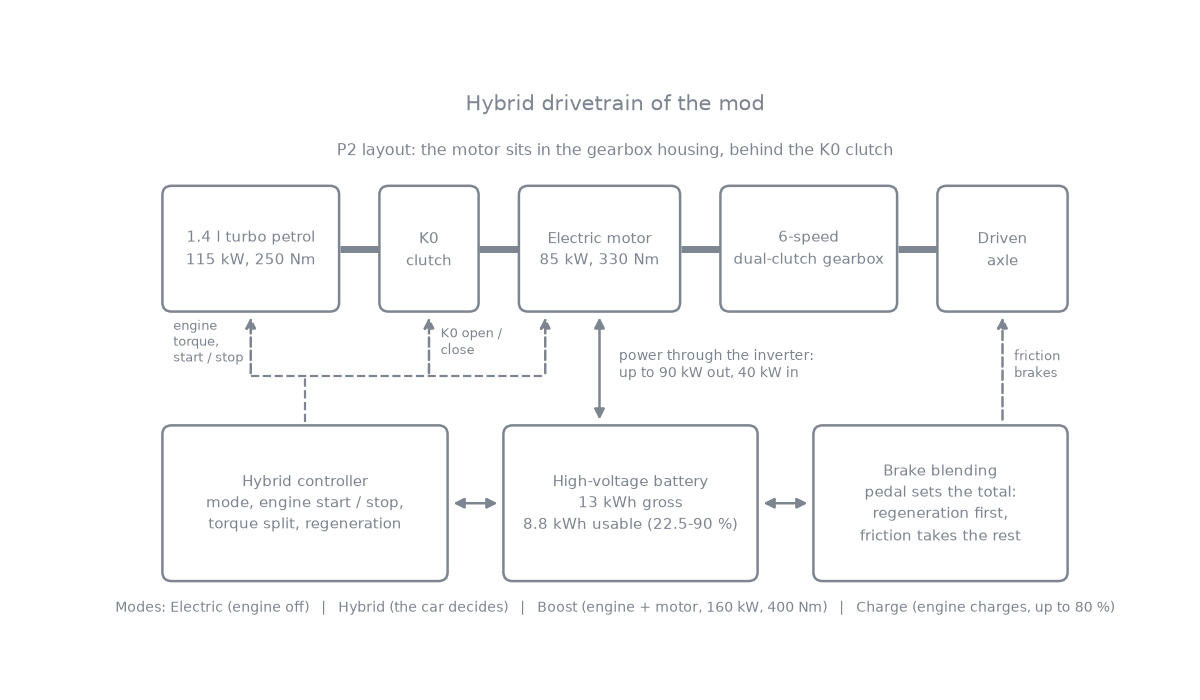
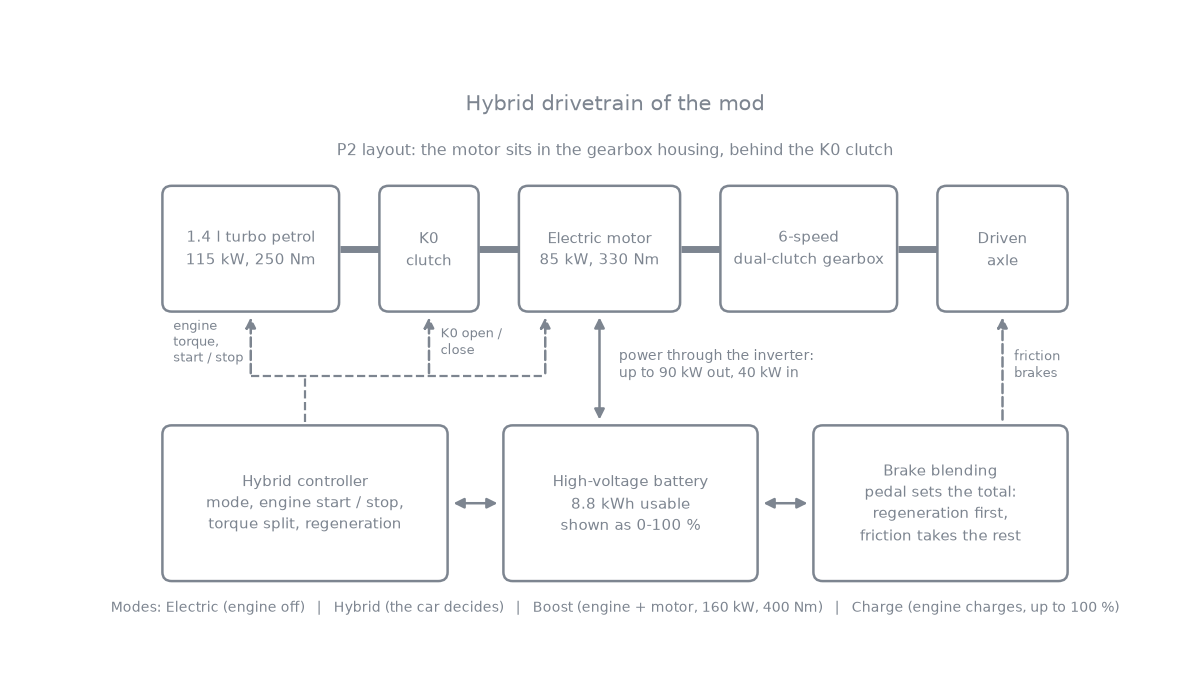
Charge shown as the usable part only (kWh and %): monitor app, README, TECHNICAL; known limit of the career charging screen

diff --git a/mod/ui/modules/apps/PhevMonitor/app.js b/mod/ui/modules/apps/PhevMonitor/app.js
@@ -49,7 +49,7 @@ angular.module('beamng.apps')
     <span class="value" style="width:48px; text-align:right;">{{ d.soc.toFixed(0) }}<span class="unit">%</span></span>
   </div>
   <div class="row" style="justify-content: space-between; margin-top:-3px;">
-    <span class="label">{{ d.usableKWh.toFixed(1) }} / {{ d.usableCapKWh.toFixed(1) }} kWh usable · raw {{ d.socRaw.toFixed(1) }}% ({{ d.winMin.toFixed(1) }}–{{ d.winMax.toFixed(0) }}%)</span>
+    <span class="label">{{ d.usableKWh.toFixed(1) }} / {{ d.usableCapKWh.toFixed(1) }} kWh · {{ d.soc.toFixed(0) }} %</span>
     <span class="label" ng-style="{color: d.battKW < -0.5 ? '#19a974' : (d.battKW > 0.5 ? '#ffb347' : '#8796a5')}">{{ d.battKW > 0 ? '+' : '' }}{{ d.battKW.toFixed(1) }} kW</span>
   </div>
 
@@ -85,7 +85,7 @@ angular.module('beamng.apps')
     <text x="362" y="56" text-anchor="middle" fill="#c9d4de" font-size="9">km/h · {{ d.wheelKW.toFixed(0) }} kW</text>
     <!-- battery -->
     <rect x="146" y="84" width="104" height="28" rx="4" fill="#222b35" stroke="#4a5866"></rect>
-    <text x="198" y="102" text-anchor="middle" fill="#e8eef2" font-size="11">HV battery {{ d.grossKWh.toFixed(1) }} kWh</text>
+    <text x="198" y="102" text-anchor="middle" fill="#e8eef2" font-size="11">HV battery {{ d.usableKWh.toFixed(1) }} kWh</text>
     <!-- flows -->
     <line x1="108" y1="37" x2="116" y2="37" stroke="#ffb347" stroke-width="3" ng-attr-opacity="{{ d.engKW > 0.5 ? 1 : 0.15 }}"></line>
     <line x1="138" y1="37" x2="146" y2="37" stroke="#ffb347" stroke-width="3" ng-attr-opacity="{{ d.engKW > 0.5 ? 1 : 0.15 }}"></line>
@@ -127,8 +127,8 @@ angular.module('beamng.apps')
 
       $scope.abs = Math.abs
       $scope.d = {
-        present: false, mode: 0, ready: false, charge: false, soc: 0, socRaw: 0, hold: 0, socColor: '#19a974',
-        usableKWh: 0, usableCapKWh: 0, grossKWh: 0, winMin: 0, winMax: 0, battKW: 0,
+        present: false, mode: 0, ready: false, charge: false, soc: 0, hold: 0, socColor: '#19a974',
+        usableKWh: 0, usableCapKWh: 0, battKW: 0,
         iceStateName: 'OFF', iceRunning: false, iceRPM: 0, engKW: 0, k0: 0,
         motorKW: 0, motorNm: 0, shaftRPM: 0, gear: 'P', launchElectric: true, speed: 0, sysKW: 0, wheelKW: 0,
         boost: 0, engineShare: 1, coolant: 0, warming: false, fuel: 0, pedal: 0, iceThrottle: 0, avas: 0,
@@ -155,14 +155,10 @@ angular.module('beamng.apps')
           d.ready = num(e.phevReady) > 0
           d.charge = num(e.phevChargeFunction) > 0
           d.soc = Math.max(0, Math.min(100, num(e.phevSocUsable)))
-          d.socRaw = num(e.phevSocRaw)
           d.hold = Math.max(0, Math.min(100, num(e.phevHoldTarget)))
           d.socColor = d.soc < 10 ? '#d7263d' : (d.soc < 25 ? '#e0a21f' : '#19a974')
           d.usableKWh = num(e.phevBatteryUsableKWh)
           d.usableCapKWh = num(e.phevBatteryUsableCapKWh)
-          d.grossKWh = num(e.phevBatteryGrossKWh)
-          d.winMin = num(e.phevSocWindowMin)
-          d.winMax = num(e.phevSocWindowMax)
           d.battKW = num(e.phevBatteryKW)
           const stateCode = Math.round(num(e.phevIceStateCode))
           d.iceStateName = stateNames[stateCode] || 'OFF'

diff --git a/README.md b/README.md
@@ -32,15 +32,19 @@ The mod adds new configurations to vanilla cars. It uses their vanilla meshes; t
 - Charge mode: in Hybrid the engine charges the battery while you drive or stand still, up to the top of the usable window, then it holds. Standing still in P or N the engine runs at about 1,800 rpm and charges about 11 kW; in D at a standstill about 2 kW, without creeping.
 - Regeneration when you lift off and when you brake, blended with the friction brakes. B position for stronger lift-off regeneration.
 - Kickdown at full pedal (99 %); with keyboard throttle, hold full throttle for 2 s. It can be switched off.
-- Battery sizes of 10, 13 and 18 kWh in the parts selector, each with its own mass. The petrol tank is reduced for the battery (38 L at 13 kWh).
-- Battery management: the usable window is 22.5-90 % of the pack. The charge never goes above the top of it, whatever charges it (regeneration, the engine, a career charging station: the charger stops there and bills only the energy the pack took).
+- Battery sizes of 10, 13 and 18 kWh in the parts selector (6.75, 8.8 and 12.15 kWh usable), each with its own mass. The petrol tank is reduced for the battery (38 L at 13 kWh).
+- Battery management: the charge is shown as the usable part only, in kWh and % (0 % empty, 100 % full: 6.75, 8.8 and 12.15 kWh usable on the 10, 13 and 18 kWh packs). The charge never goes above 100 %, whatever charges it (regeneration, the engine, a career charging station: the charger stops there and bills only the energy the pack took).
 - Battery temperature: the pack starts at 20 °C with the game's "start preheated" setting, otherwise 5 °C above the outside temperature. A cold or hot pack gives and takes less power.
 - Traction control follows the drive mode: Electric and Hybrid keep wheel slip low, Boost allows more.
 - Brakes and springs are adjusted per car for the extra mass, so the car keeps its ride height and brakes at least as strongly as before at the same pedal. Lifting off coasts more freely than with engine braking: regeneration takes its place (see [docs/PHEV-TUNING.md](docs/PHEV-TUNING.md)).
 - Brake torque vectoring on the inner front wheel (rear-wheel-drive configurations have it off by default).
 - Emergency stop signal: the brake lights flash under full braking from high speed, the hazard lights come on near a standstill.
 - No engine start while the engine's air intake is under water.
-- Plug-in Hybrid Monitor UI app: drive mode, engine and clutch state, motor and battery power, charge level. It shows only on a car with this drivetrain.
+- Plug-in Hybrid Monitor UI app: drive mode, engine and clutch state, motor and battery power, charge level (usable kWh and %). It shows only on a car with this drivetrain.
+
+## Known limits
+
+- The career charging screen is the game's own and counts the energy from an empty pack, including the reserve below the usable part. On the 13 kWh pack it shows the full mark as 11.7 kWh, where the mod shows 8.8 kWh (100 %). Charging stops at the same point, and the station bills only the energy the pack took.
 
 ## Install
 
@@ -73,7 +77,7 @@ Change them in Options > Controls, category vehicle.
 
 ## The monitor app
 
-"Plug-in Hybrid Monitor" (`ui/modules/apps/PhevMonitor`) reads the `phev*` electrics of the active vehicle and shows drive mode, engine and K0 clutch state, motor and battery power and the charge level. It hides itself on any vehicle that does not publish `phevMode`.
+"Plug-in Hybrid Monitor" (`ui/modules/apps/PhevMonitor`) reads the `phev*` electrics of the active vehicle and shows drive mode, engine and K0 clutch state, motor and battery power and the charge level (usable kWh and %, no raw or gross pack figures). It hides itself on any vehicle that does not publish `phevMode`.
 
 ## For mod authors
 

diff --git a/docs/TECHNICAL.md b/docs/TECHNICAL.md
@@ -82,8 +82,8 @@ A start that does not fire within 2 s, or an engine that dies during sync, is re
 
 | Item | Model |
 |---|---|
-| Capacity and window | 13 kWh gross; usable window 22.5 to 90 % of the pack, 8.775 kWh (10 kWh pack 6.75 kWh, 18 kWh pack 12.15 kWh usable). The displayed charge runs 0 to 100 % over the window |
-| Cap at the top | the stored energy is clamped at 90 % of gross whatever charges the pack: regeneration, the engine, or a career charging station (the station stops there and bills only what the pack took). Charge limits also taper well before the top |
+| Capacity and window | 13 kWh gross; usable window 22.5 to 90 % of the pack, 8.775 kWh (10 kWh pack 6.75 kWh, 18 kWh pack 12.15 kWh usable). The displayed charge runs 0 to 100 % over the window: the monitor app and every charge figure in this document use this usable scale; raw values (share of the whole pack) are marked as such |
+| Cap at the top | the stored energy is clamped at the top of the window (100 % usable; raw: 90 % of the pack) whatever charges the pack: regeneration, the engine, or a career charging station (the station stops there and bills only what the pack took; its own screen is the game's and counts from an empty pack, so it shows 11.7 kWh at the top of the 13 kWh pack). Charge limits also taper well before the top |
 | Rated power | 90 kW out and 40 kW in at the terminals (13 kWh pack) |
 | Discharge limit by charge | 50 % of rated at 0 % usable, 75 % at 3 %, full from 10 % |
 | Charge limit by charge | full up to 80 % usable, 50 % at 90 %, 20 % at 100 % |
